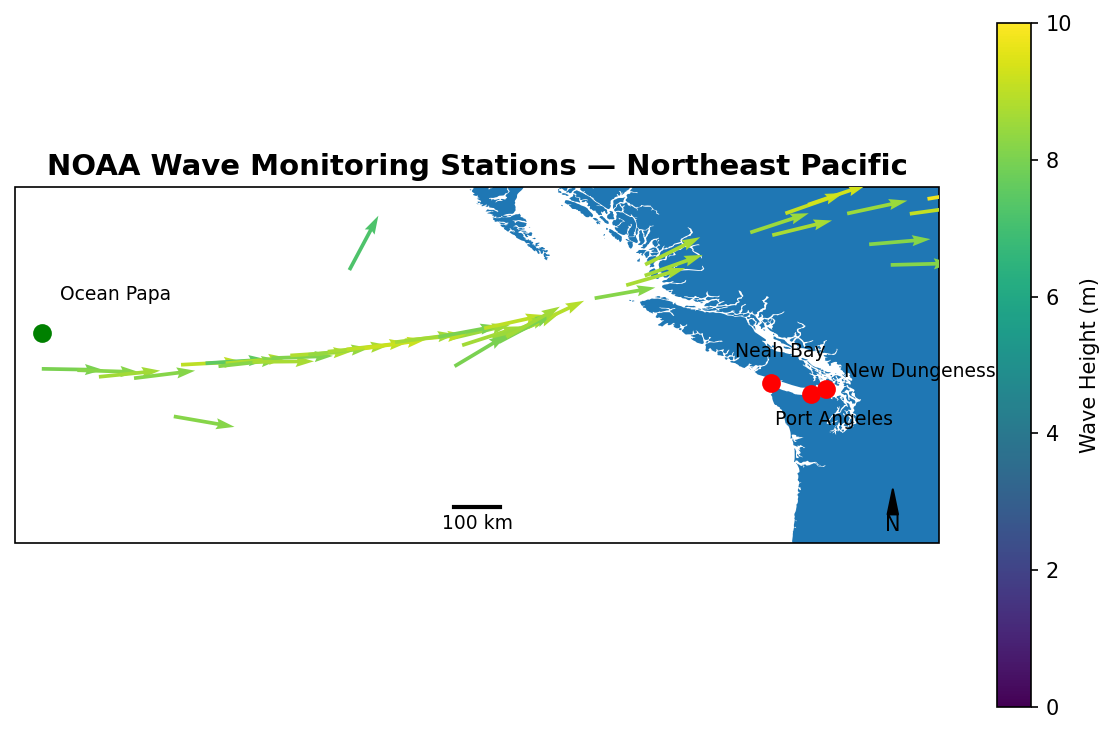
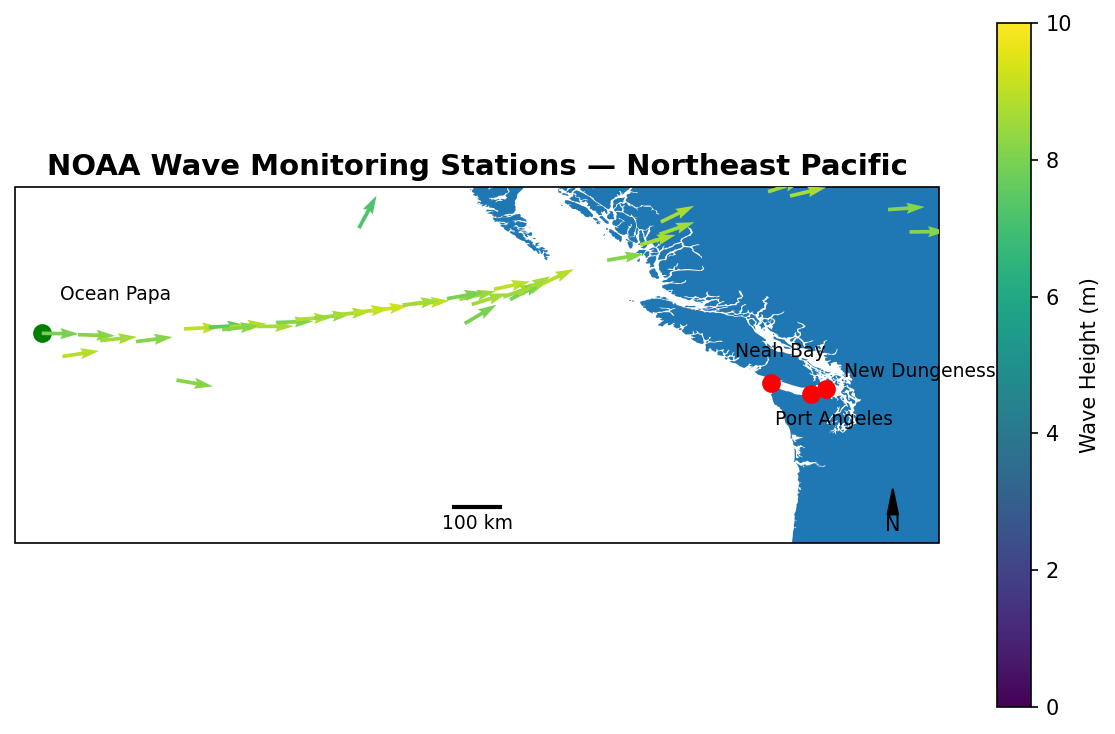
gettin the map

diff --git a/Salish_Alerts.py b/Salish_Alerts.py
@@ -11,6 +11,7 @@ from _plot_conditions_functions import plot_waves, plot_wind, plot_neah_waves, p
 from _map_conditions import map_pacific
 from _report_funcitons import  wave_summary, current_report, tide_report, wind_report, setstatus
 from _salish_website import render_salish_report
+from _some_modeling import predict_wavepath
 
 Ocean_Papa = "46246"
 South_Nomad = "46036"
@@ -439,5 +440,6 @@ Summary from New Dungeness Bouy at {local_time}:
 ###################################################################### 
 print("now to render the report:")
 #map_salish_sea(wave145,wave124,wave123pa,wave123nd)
-map_pacific(wave145, wave124,wave123pa, wave123nd)
+pacific_waves = predict_wavepath(waves145)
+map_pacific(wave145, wave124,wave123pa, wave123nd, pacific_waves)
 render_salish_report(wave145, wave124, wave123pa, wave123nd)
